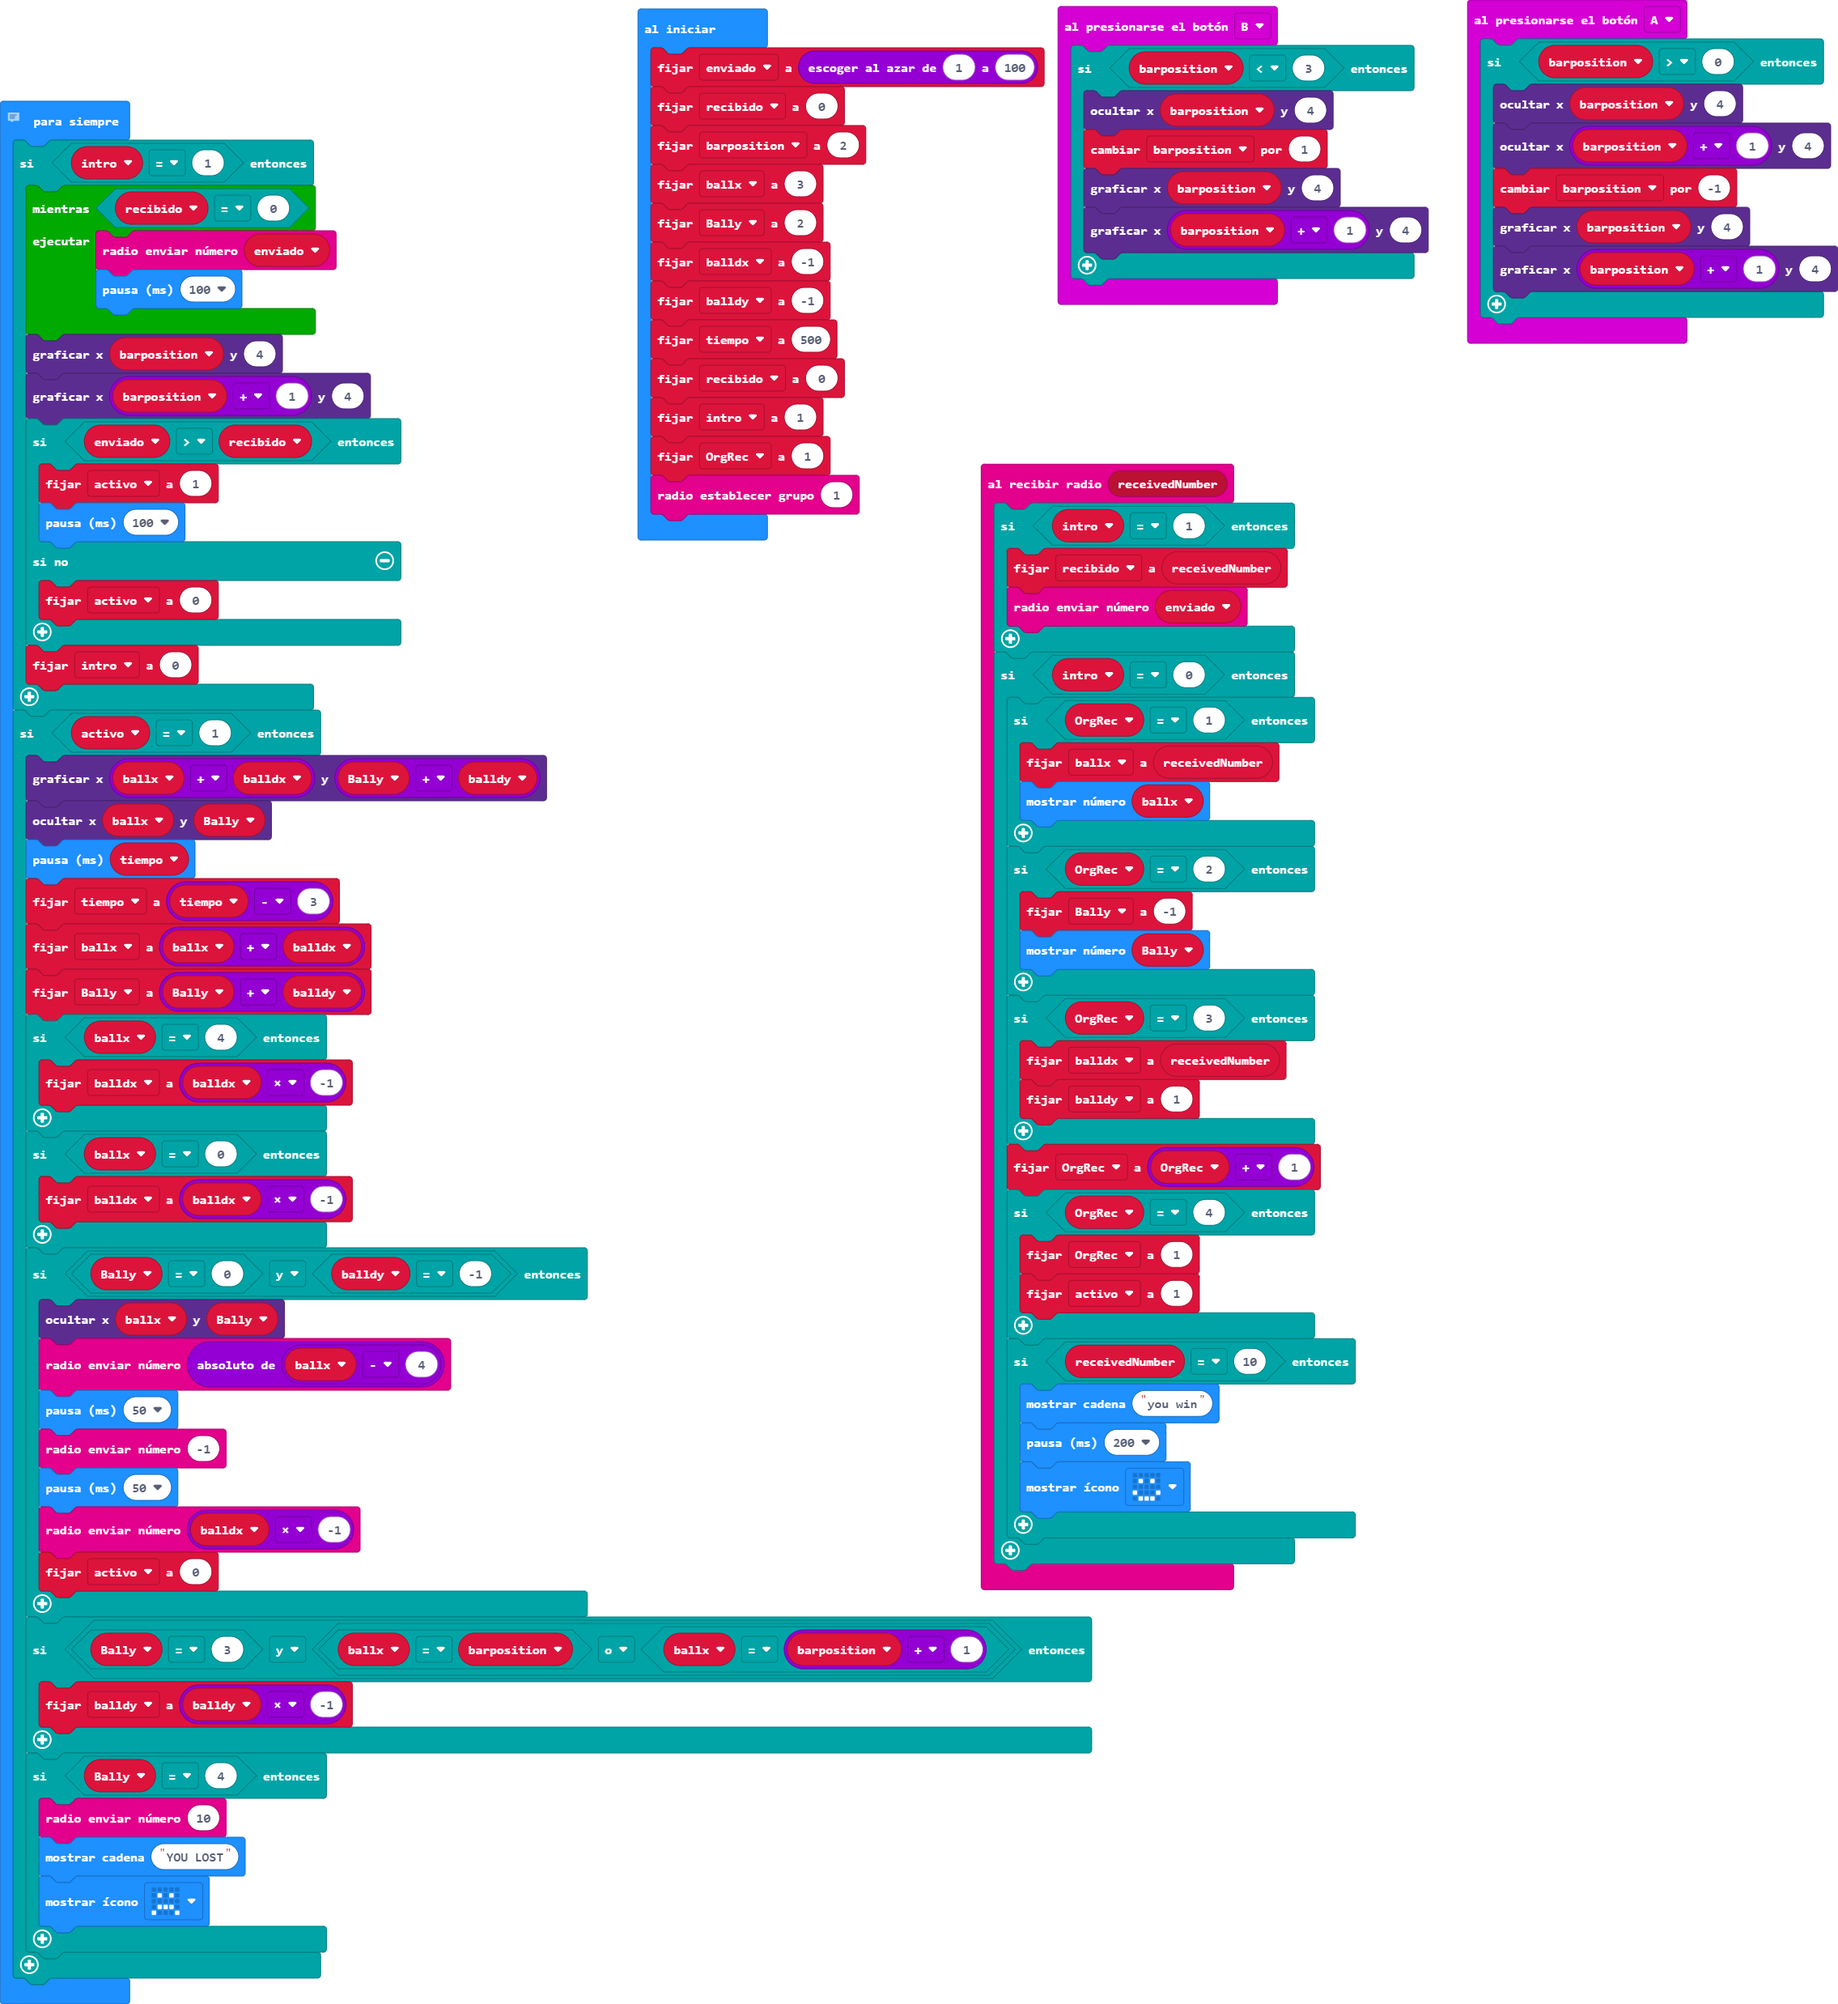
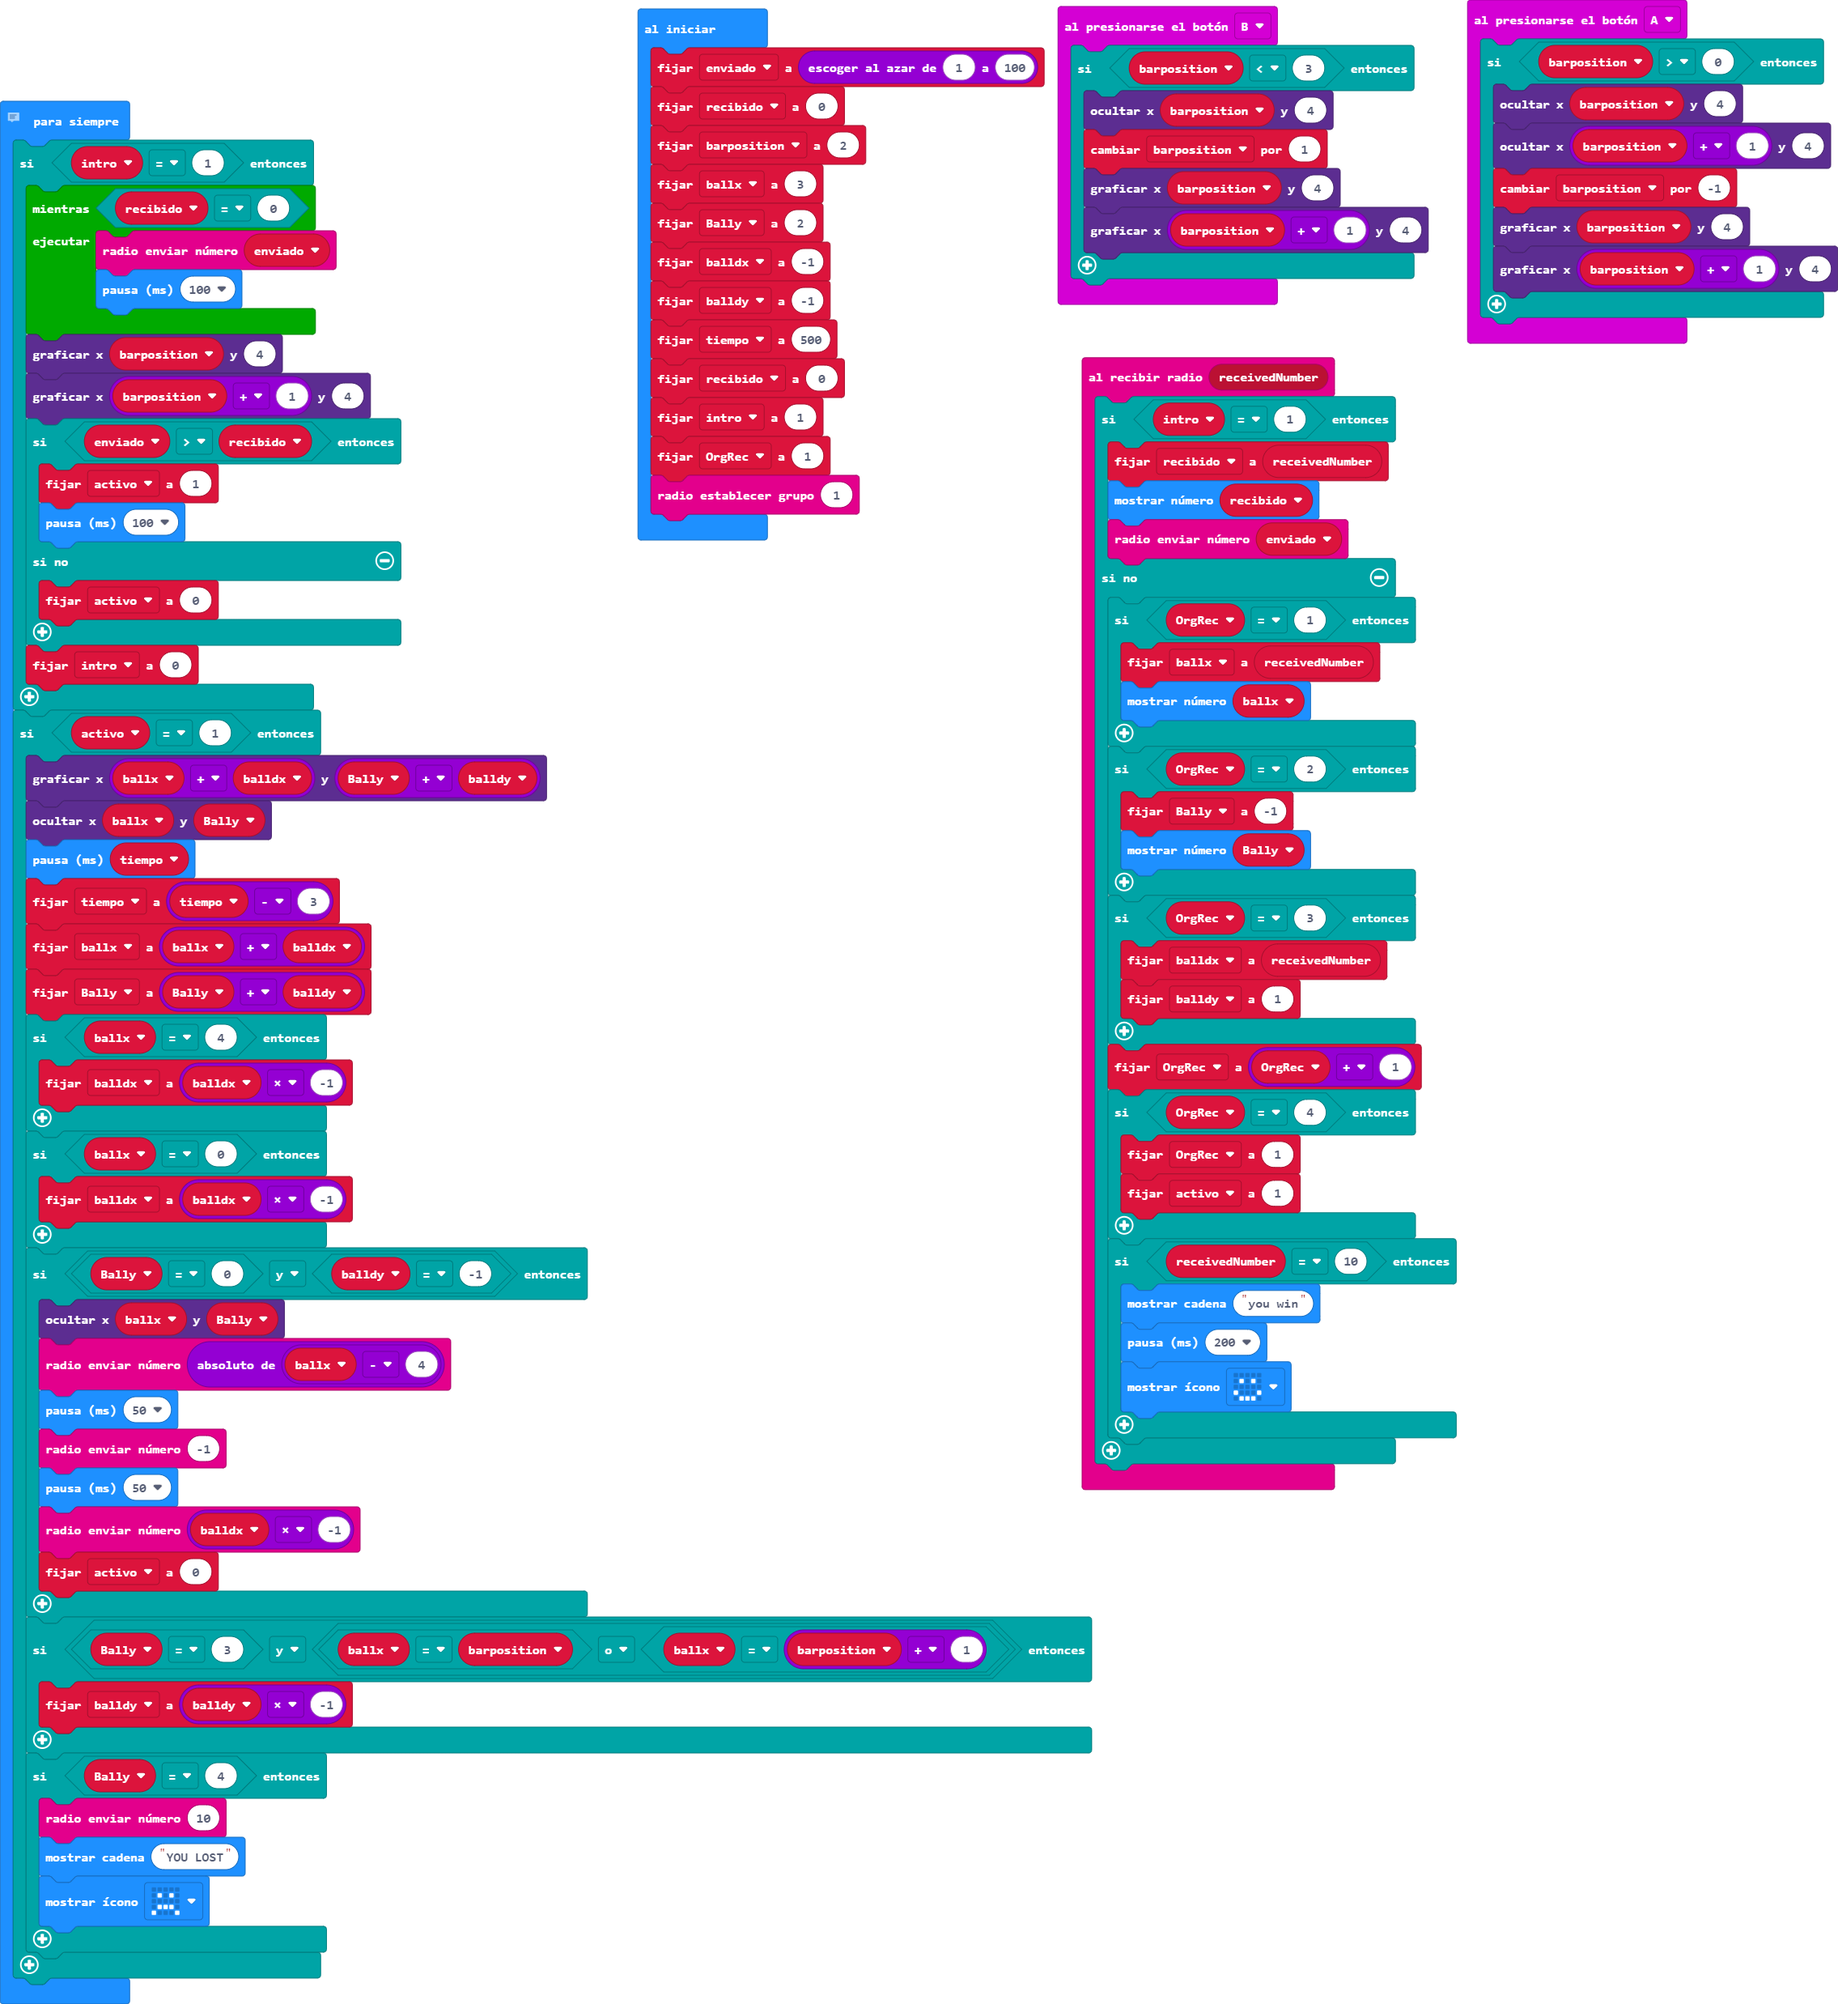
juyutdrd

Changed region(s): [[0.524, 0.1556, 0.8014, 0.8089]]

diff --git a/main.ts b/main.ts
@@ -4,9 +4,9 @@ enum RadioMessage {
 radio.onReceivedNumber(function (receivedNumber) {
     if (intro == 1) {
         recibido = receivedNumber
+        basic.showNumber(recibido)
         radio.sendNumber(enviado)
-    }
-    if (intro == 0) {
+    } else {
         if (OrgRec == 1) {
             ballx = receivedNumber
             basic.showNumber(ballx)
